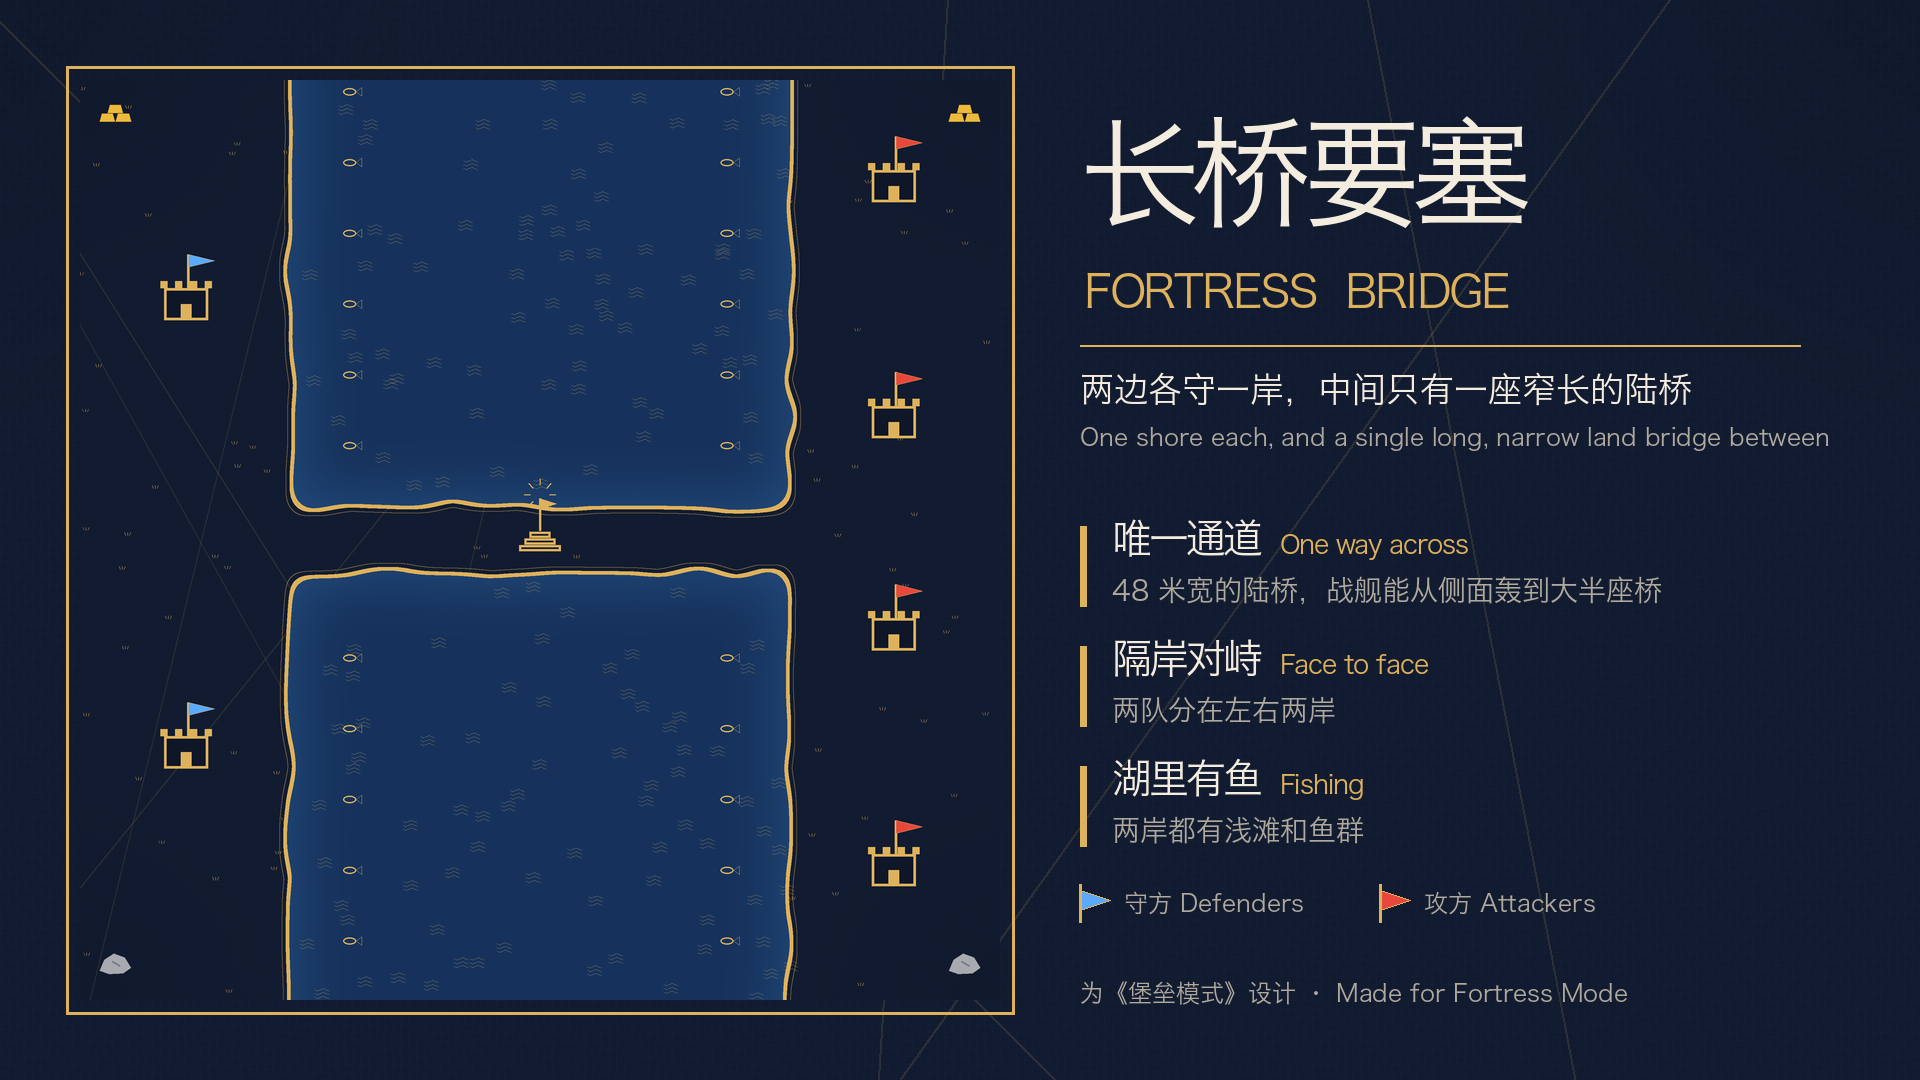
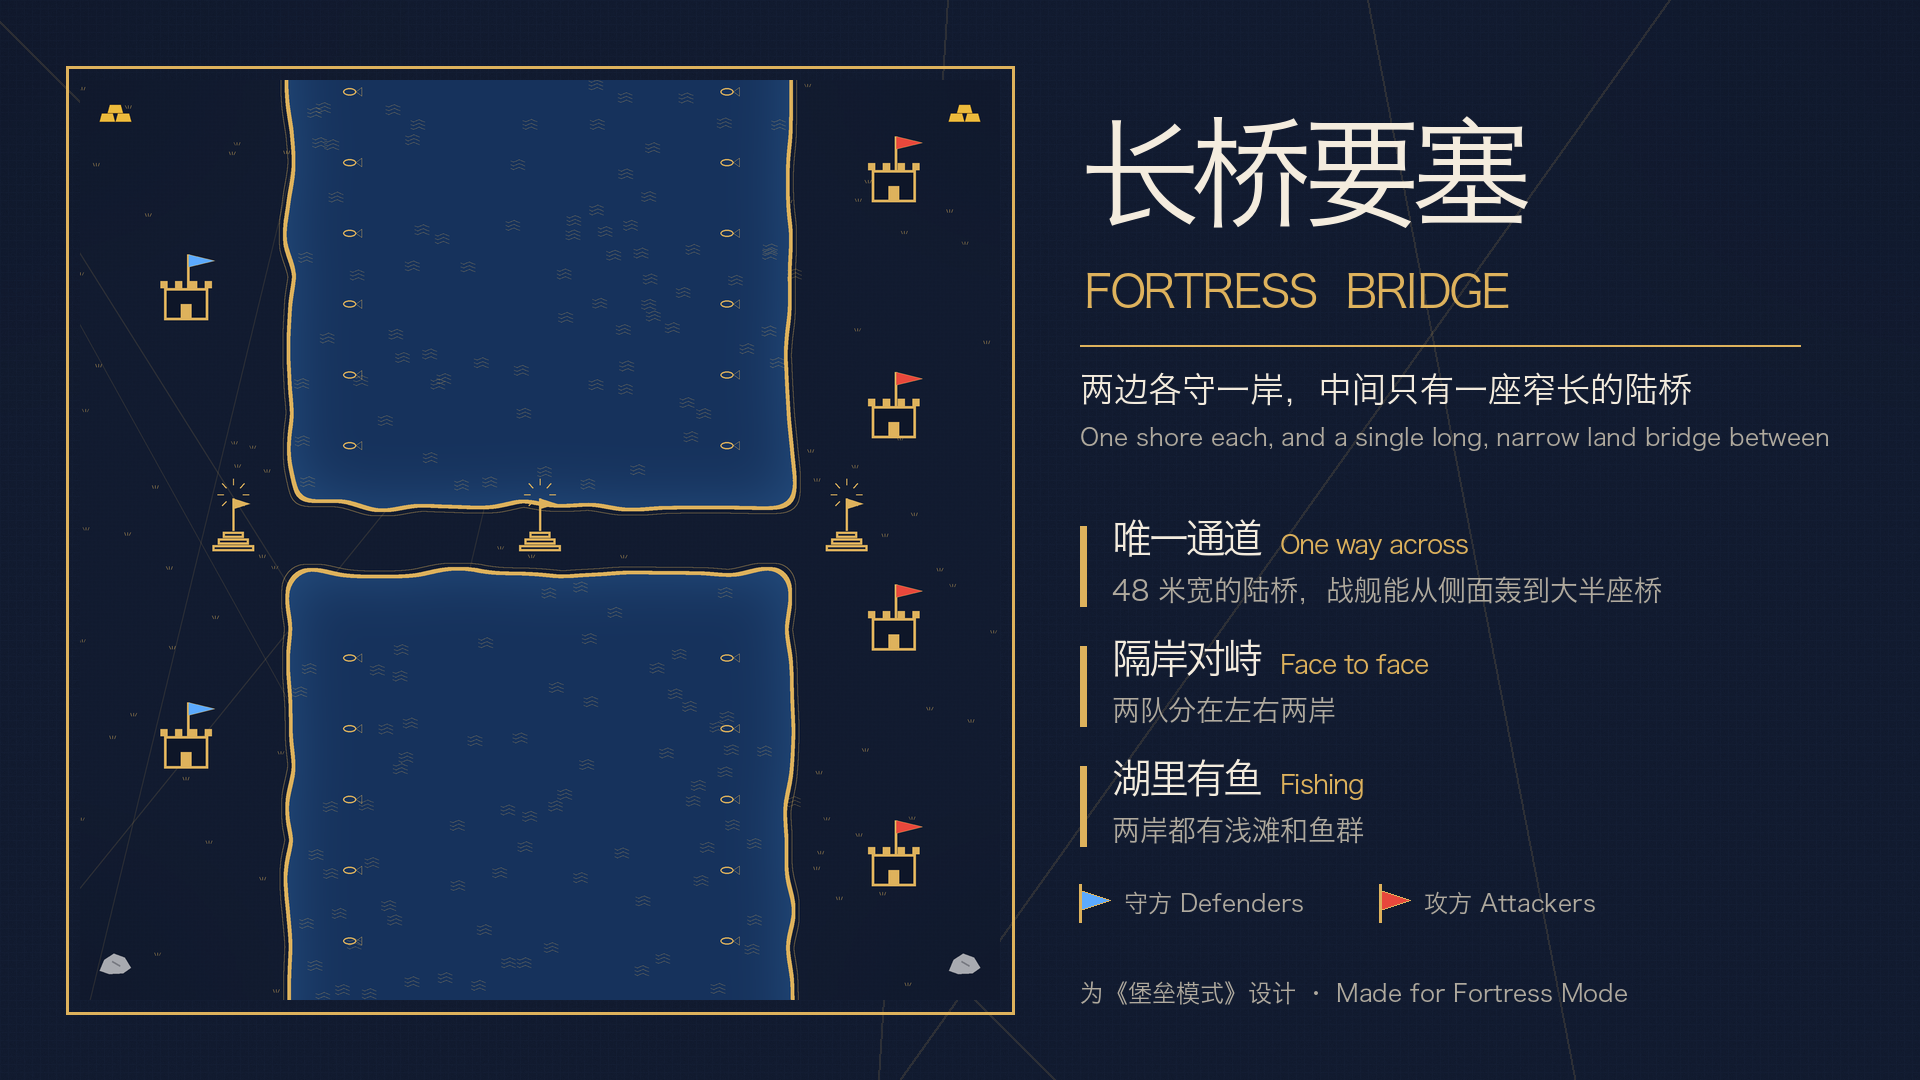
Three sacred sites per map, as the official maps have
One in the middle and a pair on either side: on Fortress Bridge at both
ends of the bridge, on Fortress H on the uprights by the bridges, on
Fortress Hill outside the moat. Each keeps clear of every start.

diff --git a/maps/fortress_bridge/publish/DESCRIPTION.md b/maps/fortress_bridge/publish/DESCRIPTION.md
@@ -14,7 +14,7 @@
 | 通道 | 中间一座陆桥，约 48 米宽，两侧是深水，没有别的路；停在一侧的战舰能打到大半座桥 |
 | 水域 | 上下都是深湖，走不过去；两岸都有浅滩，可以捕鱼、造码头 |
 | 资源 | 标准开局资源，两岸后方各多一座金矿和石矿 |
-| 圣地 | 长桥正中间一座，双方必争 |
+| 圣地 | 3 座：长桥正中间一座，两岸桥头各一座 |
 
 ### 怎么玩
 
@@ -37,7 +37,7 @@
 | Way across | One land bridge in the middle, about 48 m wide, with deep water on both sides and no other way over; a warship on one side covers most of it |
 | Water | Deep lakes above and below: no wading, but both shores have shallows for fishing and docks |
 | Resources | The standard start, plus an extra gold and stone deposit at the back of each shore |
-| Sacred site | One in the middle of the bridge, for both sides to fight over |
+| Sacred sites | Three: one in the middle of the bridge and one at each end of it |
 
 ### How to play
 

diff --git a/maps/fortress_h/publish/DESCRIPTION.md b/maps/fortress_h/publish/DESCRIPTION.md
@@ -15,7 +15,7 @@
 | 通道 | 左右各一个窄口，很窄，几段城墙就能封住 |
 | 水域 | 横梁上下是深湖，走不过去；可以捕鱼，也能造船 |
 | 资源 | 标准开局资源，横梁两端各多一座金矿和石矿 |
-| 圣地 | 横梁正中间一座，在守方身后 |
+| 圣地 | 3 座：横梁中央一座在守方身后，左右竖边靠陆桥各一座在攻方那边 |
 
 ### 怎么玩
 
@@ -39,7 +39,7 @@
 | Ways in | One narrow neck at each end, narrow enough to close with a few wall sections |
 | Water | Deep lakes above and below the crossbar: no wading, but fishing and ships work |
 | Resources | The standard start, plus an extra gold and stone deposit at each end of the crossbar |
-| Sacred site | One in the middle of the crossbar, behind the defenders |
+| Sacred sites | Three: one in the middle of the crossbar behind the defenders, and one on each upright by its bridge, on the attackers' side |
 
 ### How to play
 

diff --git a/maps/fortress_hill/publish/DESCRIPTION.md b/maps/fortress_hill/publish/DESCRIPTION.md
@@ -16,7 +16,7 @@
 | 地势 | 平缓的小山，没有悬崖，镜头不会跳 |
 | 水域 | 护城河是深水，走不过去；内侧有浅滩，可以捕鱼、造码头 |
 | 资源 | 标准开局资源，高地四角各多一座金矿或石矿 |
-| 圣地 | 小山正中间一座，在守方身后 |
+| 圣地 | 3 座：小山正中间一座，护城河外左右各一座，要出门去抢 |
 
 ### 怎么玩
 
@@ -41,7 +41,7 @@
 | Height | A gentle hill with no cliffs, so the camera stays steady |
 | Water | The moat is deep: no wading, but the inner side has a shore for fishing and docks |
 | Resources | The standard start, plus an extra gold or stone deposit in each corner of the plateau |
-| Sacred site | One in the middle of the hill, behind the defenders |
+| Sacred sites | Three: one in the middle of the hill and one outside the moat on each side, to be fought for |
 
 ### How to play
 
